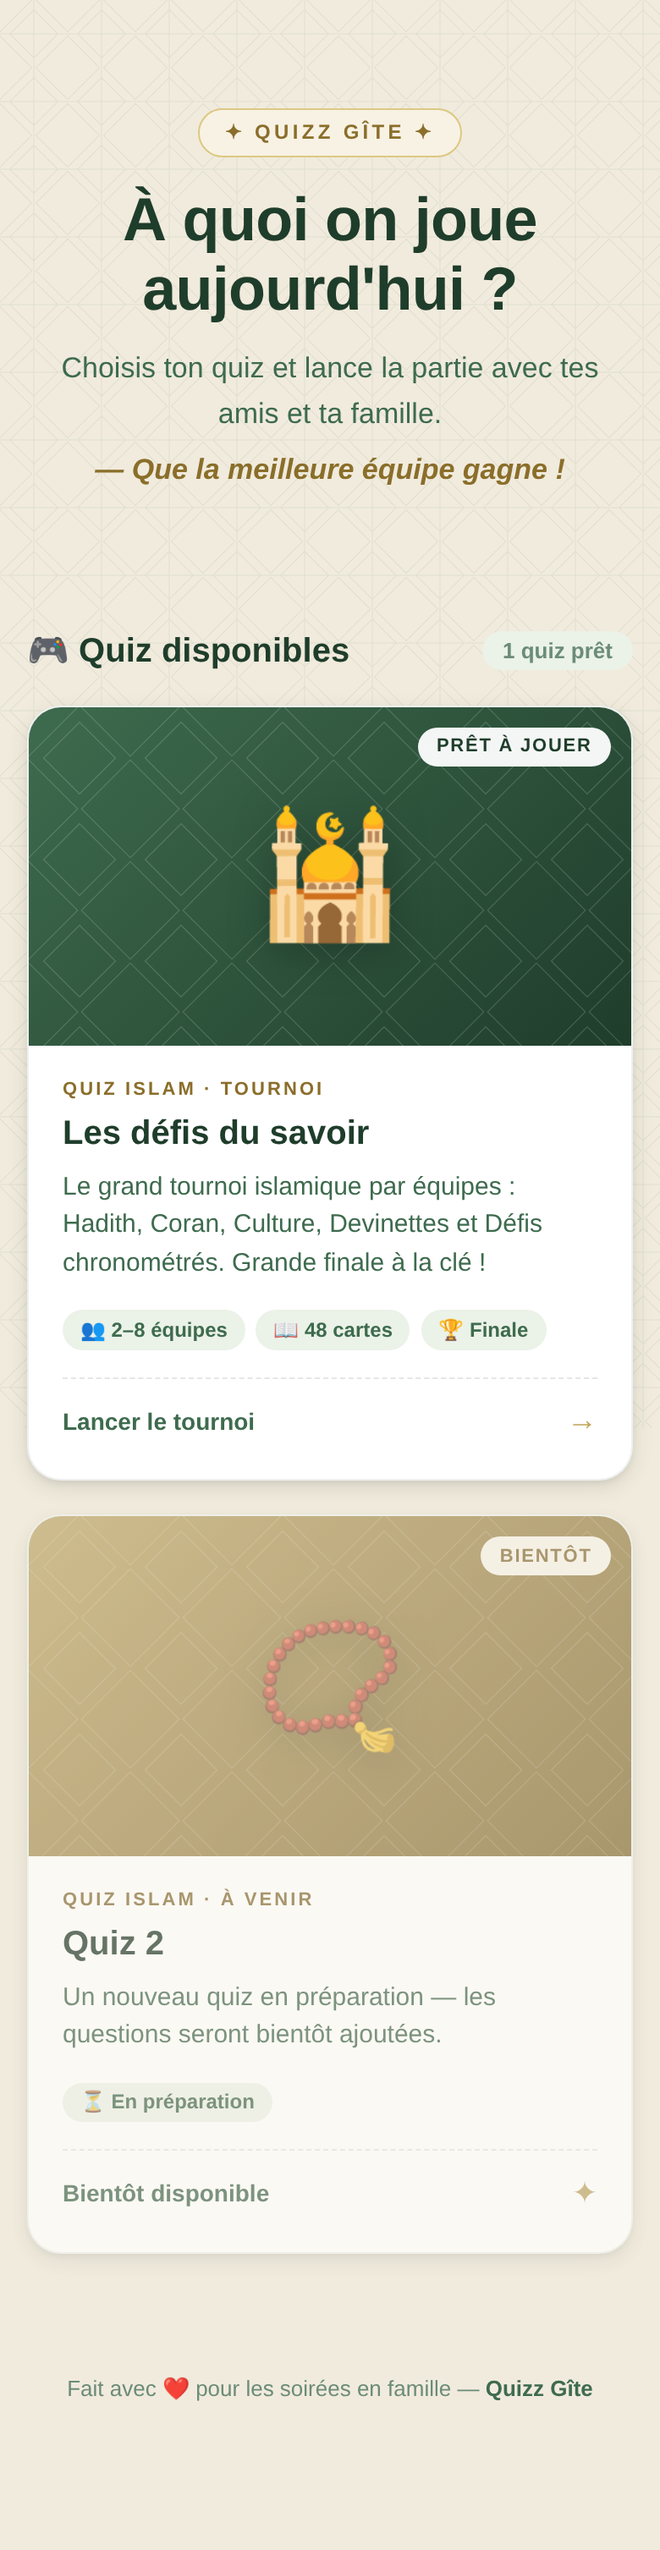
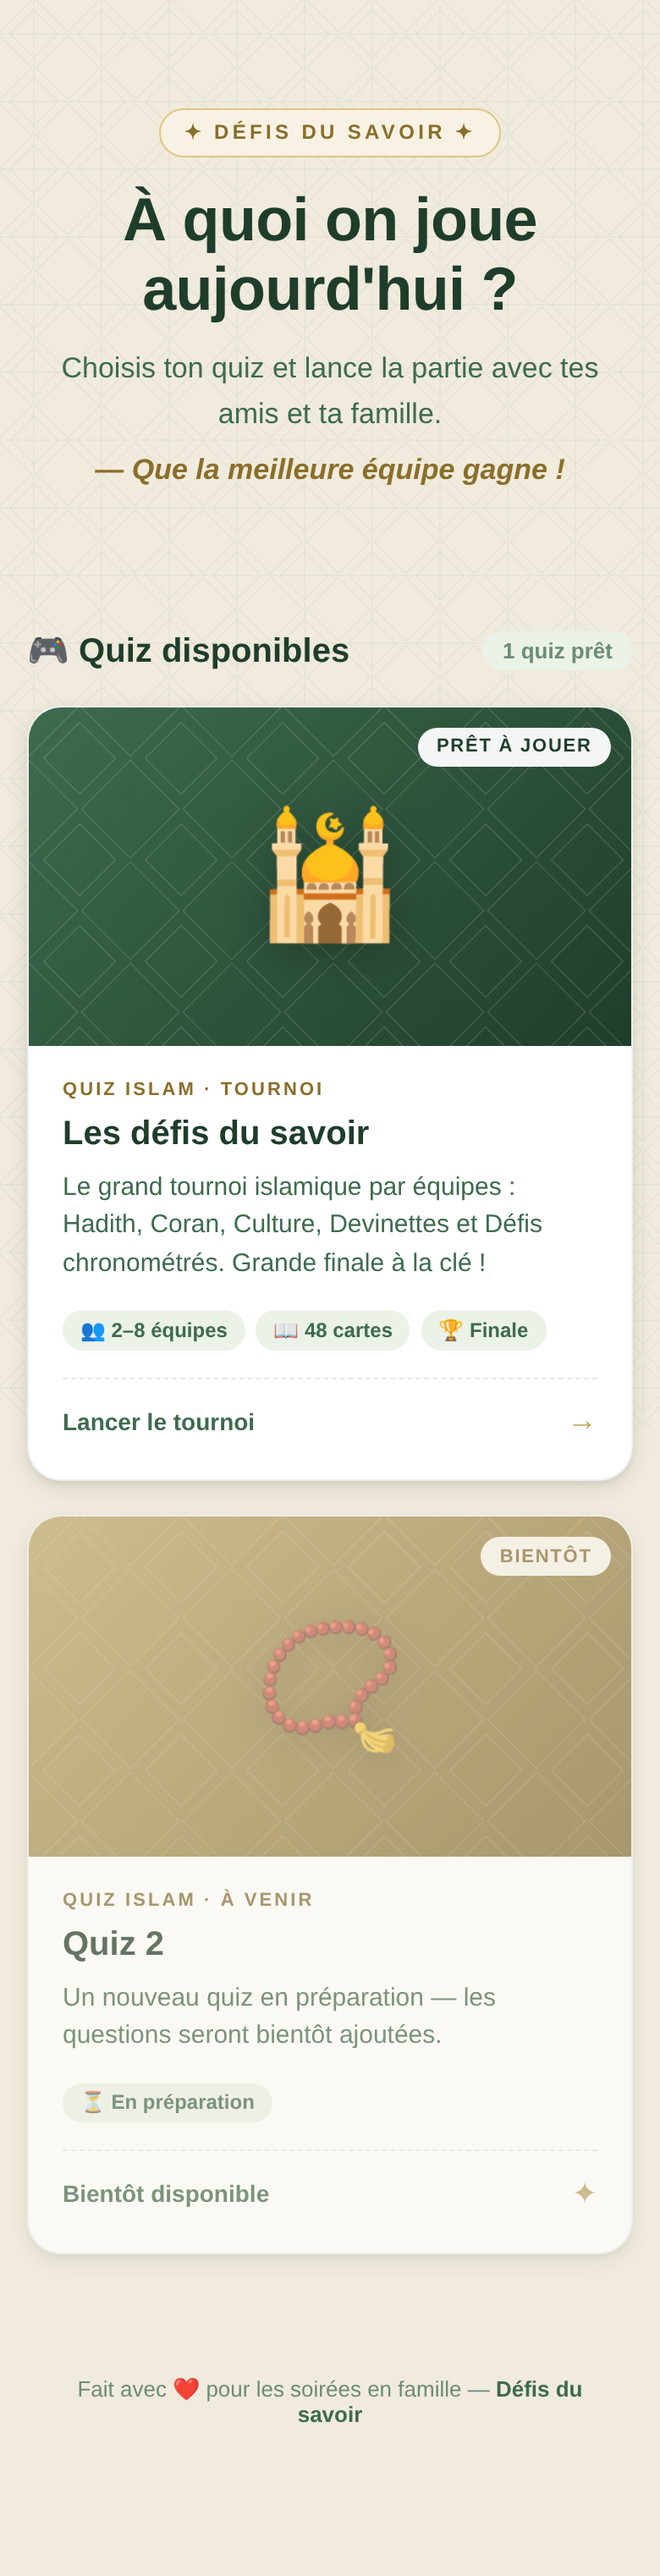
Rename platform to "Défis du savoir"
Update landing page title, hero tag and footer to use "Défis du savoir"
as the marketplace name instead of "Quizz Gîte".

https://claude.ai/code/session_01QRbs2tiJZu4vdUTAHMHX7Y

diff --git a/index.html b/index.html
@@ -3,7 +3,7 @@
 <head>
   <meta charset="UTF-8" />
   <meta name="viewport" content="width=device-width, initial-scale=1.0" />
-  <title>Quizz Gîte — À quoi on joue aujourd'hui ?</title>
+  <title>Défis du savoir — À quoi on joue aujourd'hui ?</title>
   <link rel="preconnect" href="https://fonts.googleapis.com">
   <link rel="preconnect" href="https://fonts.gstatic.com" crossorigin>
   <link href="https://fonts.googleapis.com/css2?family=Nunito:wght@400;600;700;800;900&display=swap" rel="stylesheet">
@@ -270,7 +270,7 @@
 
   <div class="container">
     <header class="hero">
-      <span class="hero-tag">✦ Quizz Gîte ✦</span>
+      <span class="hero-tag">✦ Défis du savoir ✦</span>
       <h1 class="hero-title">À quoi on joue aujourd'hui ?</h1>
       <p class="hero-sub">
         Choisis ton quiz et lance la partie avec tes amis et ta famille.
@@ -337,7 +337,7 @@
     </div>
 
     <footer class="foot">
-      <p>Fait avec ❤ pour les soirées en famille — <strong>Quizz Gîte</strong></p>
+      <p>Fait avec ❤ pour les soirées en famille — <strong>Défis du savoir</strong></p>
     </footer>
   </div>
 
